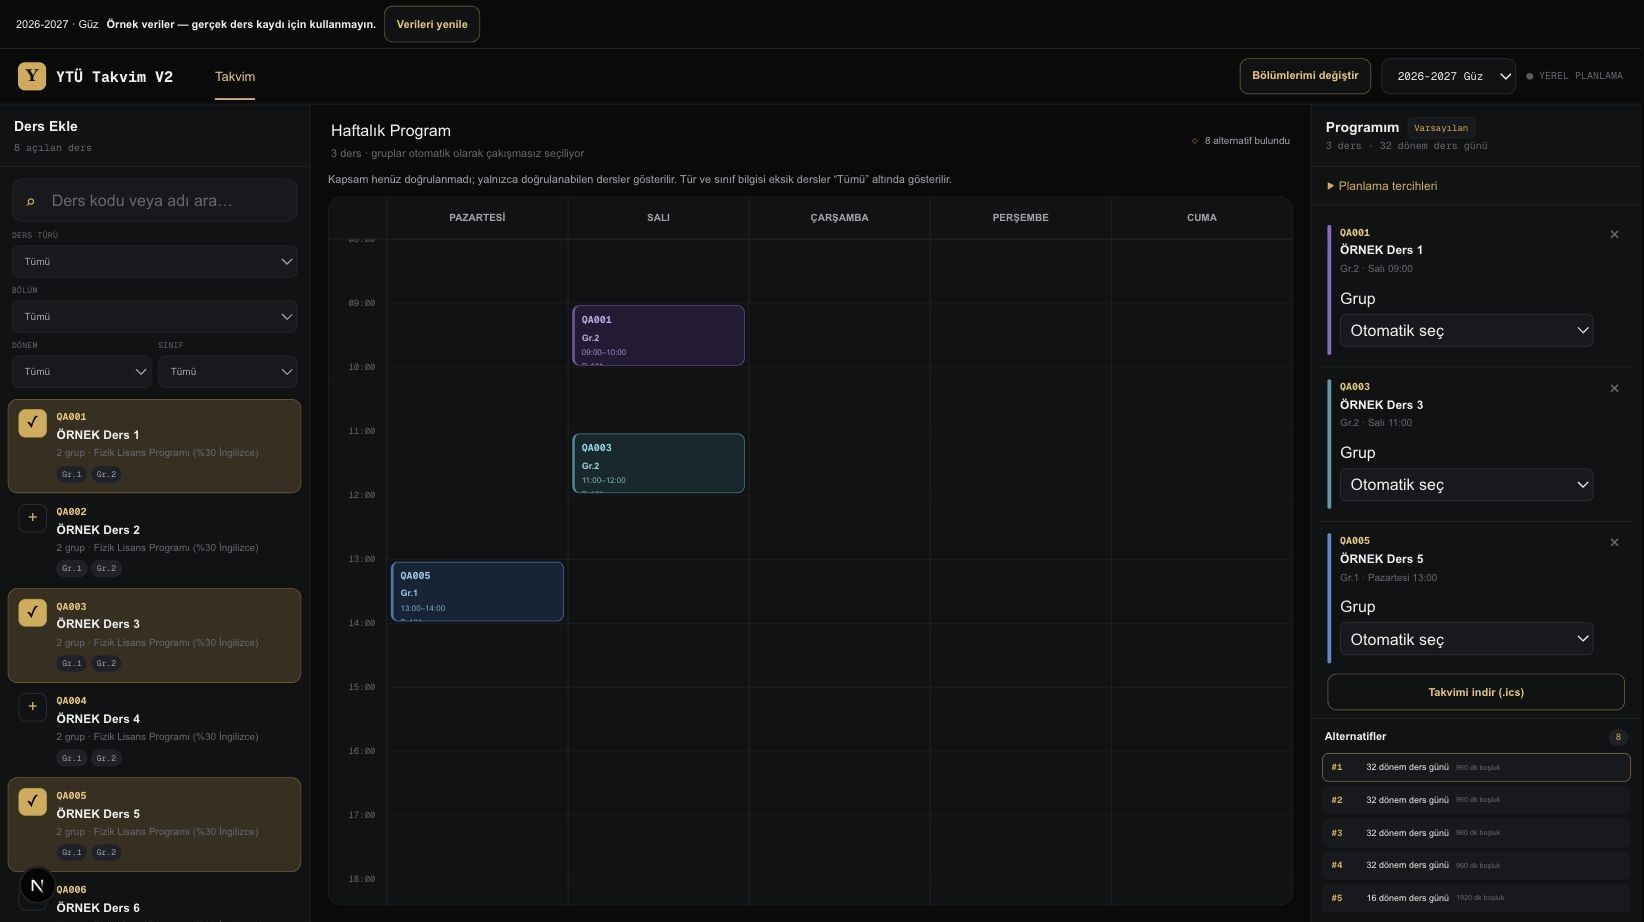
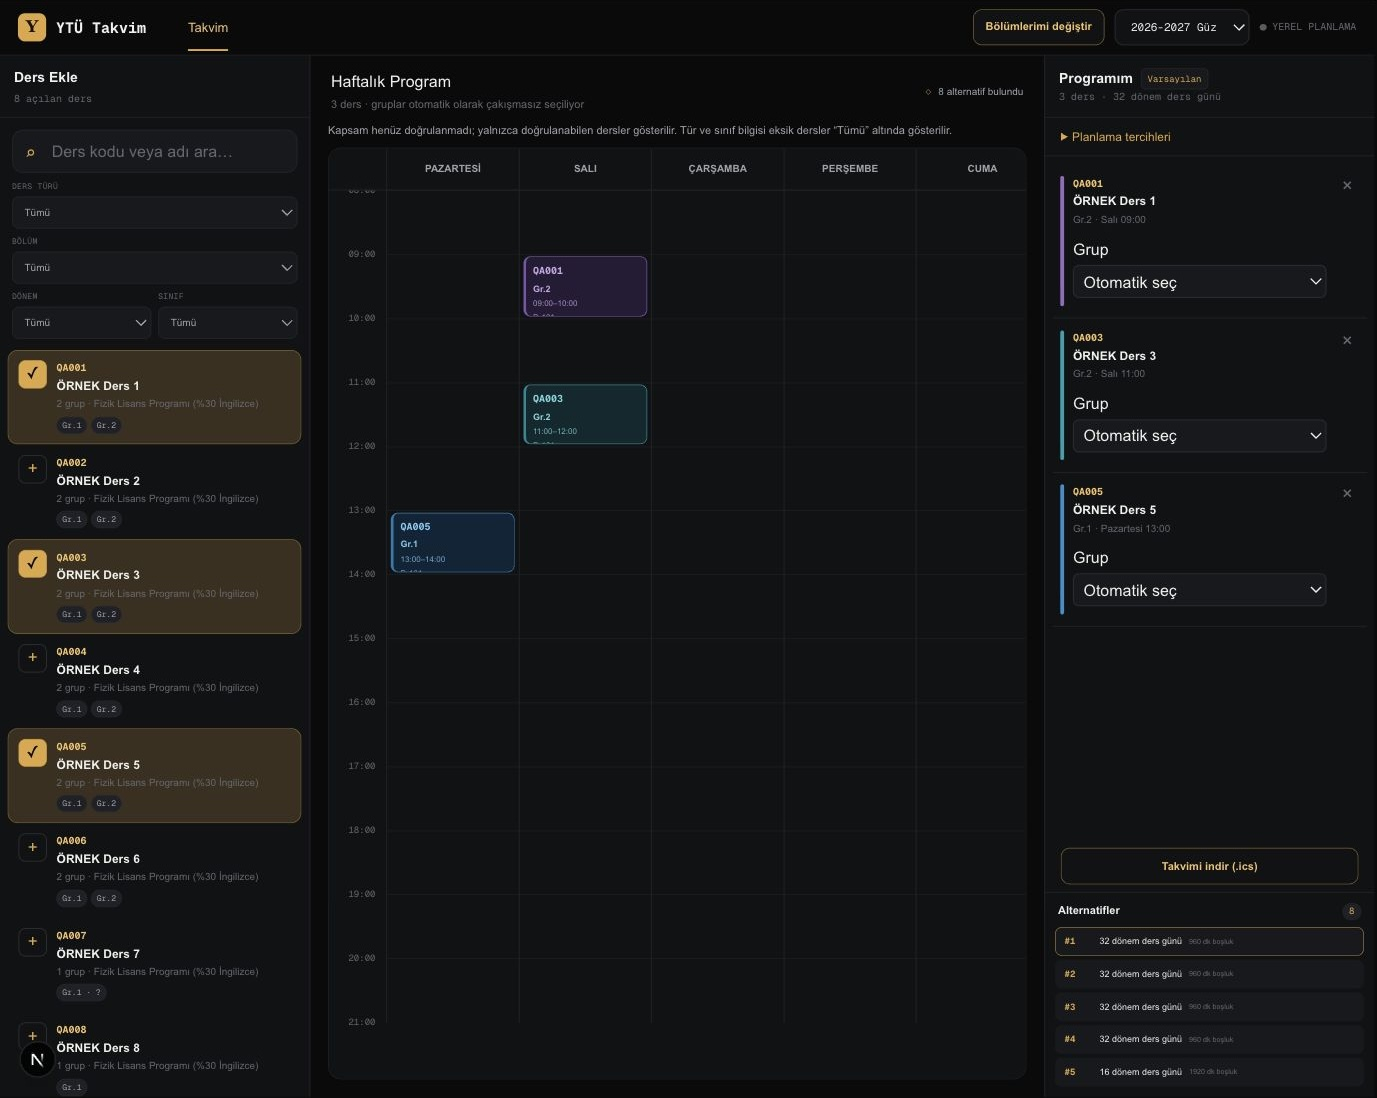
initial commit

diff --git a/web/src/components/dashboard.tsx b/web/src/components/dashboard.tsx
@@ -289,7 +289,7 @@ export function Dashboard({ programIds, onChangePrograms, packageData }: {
       <header className="planner-topbar">
         <div className="planner-brand">
           <span className="planner-logo">Y</span>
-          <strong>YTÜ Takvim V2</strong>
+          <strong>YTÜ Takvim</strong>
         </div>
         <nav className="planner-tabs" aria-label="Bölümler">
           <button className="active" type="button">Takvim</button>

diff --git a/web/src/app/layout.tsx b/web/src/app/layout.tsx
@@ -13,7 +13,7 @@ const geistMono = Geist_Mono({
 });
 
 export const metadata: Metadata = {
-  title: "YTÜ Takvim V2",
+  title: "YTÜ Takvim",
   description: "Bölümünüze uygun derslerle çakışmasız YTÜ ders programı oluşturucu.",
 };
 

diff --git a/api/src/ytu_scheduler/config.py b/api/src/ytu_scheduler/config.py
@@ -10,7 +10,7 @@ class Settings(BaseSettings):
 
     owner_token: SecretStr | None = None
 
-    app_name: str = "YTU Schedule Lab V2"
+    app_name: str = "YTÜ Takvim"
     database_url: str = "sqlite:///./ytu_scheduler.db"
     cors_origins: str = "http://localhost:3000"
     draft_database: Path = Path("data/owner-drafts.db")

diff --git a/local-owner/README.md b/local-owner/README.md
@@ -1,4 +1,4 @@
-# Local owner tools — WIP
+# YTÜ Takvim — local owner tools (WIP)
 
 This application prepares timetable data on the owner's computer. Keep its source
 in the repository, but never deploy its service or include owner data in the student site.

diff --git a/web/README.md b/web/README.md
@@ -1,4 +1,4 @@
-# Student app — WIP
+# YTÜ Takvim — student app (WIP)
 
 Run `npm ci`, then `npm run demo` for an API-free development demo with invented
 QA courses. Open http://localhost:3000, select Fizik, and add QA001/QA003/QA005.

diff --git a/api/README.md b/api/README.md
@@ -1,4 +1,4 @@
-# Scheduler API — WIP
+# YTÜ Takvim API — WIP
 
 Python 3.13 / FastAPI / SQLAlchemy / SQLite, with local document extraction,
 curriculum ingestion, review/export workflows and a legacy OR-Tools solver.

diff --git a/README.md b/README.md
@@ -1,4 +1,4 @@
-# YTU Schedule Lab
+# YTÜ Takvim
 
 **Work in progress**
 
